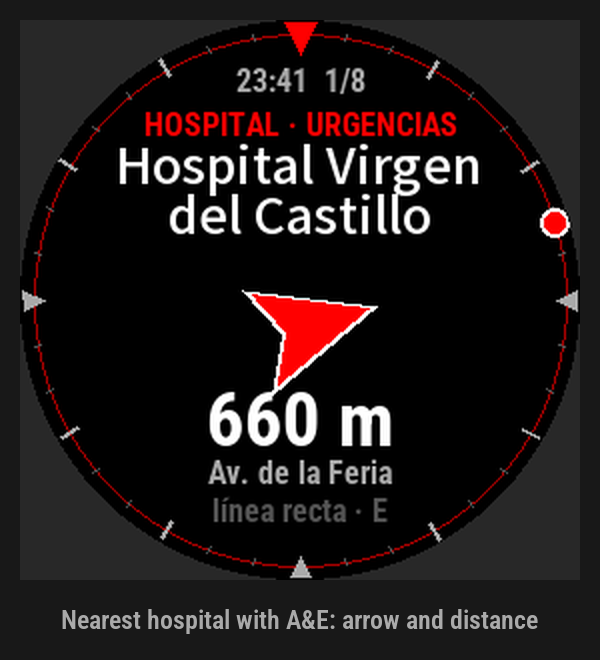
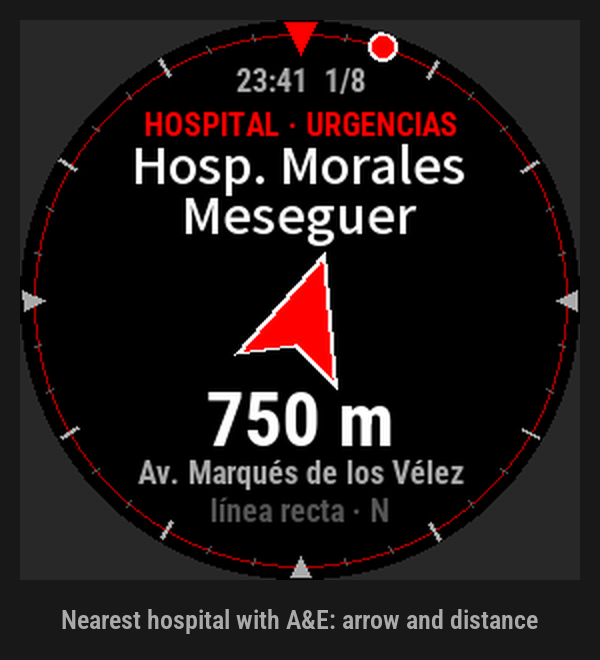
Calles Murcia: nombres de hospital y comisaría que caben, pantalla 4 con el Morales Meseguer y beta_id propio
- overrides-murcia.json, poi_abrev: los 32 nombres que no cabían enteros en la guía (240, 260 y 280, medido con
  mockup.py) pasan a una forma corta legible («Hosp. Morales Meseguer», «Hospital Virgen de la Arrixaca»,
  «Cartagena · Distrito 1»…). Ahora caben los 70.
- Pantalla 4 de la tienda: desde la Gran Vía de Murcia, el Morales Meseguer a 750 m (antes, el hospital de Yecla).
- catalogo.json: beta_id fe5c0e8f… (solo el fēnix 7X Pro), que no se cambia nunca.
- Título «Calles Murcia (offline)» confirmado por el autor.

Changed region(s): [[0.18, 0.2121, 0.81, 0.7879], [0.6, 0.0303, 0.69, 0.0909], [0.9, 0.303, 0.96, 0.3636]]

diff --git a/tools/mockup.py b/tools/mockup.py
@@ -606,11 +606,11 @@ ESCENAS_MURCIA = [
     ("Cartagena: Calle Mayor", dict(calle1="Calle Mayor", num1="nº 14", barrio="Casco Antiguo",
                                     tramo=("Calle Medieras", "Calle Andino"))),
     ("Pedanía y término", dict(lugar="El Moral", sub="término de Caravaca de la Cruz", pie="30S 569078 4205422")),
-    # Desde la calle San José (Yecla, centro): el de urgencias más cercano está a 660 m, rumbo 73°. (El Morales
-    # Meseguer, desde la Gran Vía de Murcia, no cabe: «Hospital General Universitario…» se corta.)
-    ("Yecla: hospital", dict(anillo=dict(nombre="Hospital Virgen del Castillo", dir="Avenida de la Feria",
-                                         tipo="HOSPITAL · URGENCIAS", color=ROJO, dist="660 m", rumbo=0, destino=73,
-                                         i=1, n=8))),
+    # Desde la Gran Vía de Murcia (nº 23): el de urgencias más cercano está a 750 m, rumbo 18°. El nombre va con la
+    # forma corta de overrides-murcia.json (poi_abrev), que cabe entera en 240, 260 y 280.
+    ("Murcia: hospital", dict(anillo=dict(nombre="Hosp. Morales Meseguer", dir="Avenida Marqués de los Vélez",
+                                          tipo="HOSPITAL · URGENCIAS", color=ROJO, dist="750 m", rumbo=0, destino=18,
+                                          i=1, n=8))),
 ]
 FICHAS = {
     "madrid": ("", ESCENARIOS, None, (("Street, door number and the streets on each side", "Madrid: Gran Vía"),
@@ -626,7 +626,7 @@ FICHAS = {
                (("Street, door number and the streets on each side", "Murcia: Calle Trapería"),
                 ("Cities and towns: street, number and neighbourhood", "Cartagena: Calle Mayor"),
                 ("Outside town: hamlet and municipality", "Pedanía y término"),
-                ("Nearest hospital with A&E: arrow and distance", "Yecla: hospital"))),
+                ("Nearest hospital with A&E: arrow and distance", "Murcia: hospital"))),
 }
 
 

diff --git a/docs/tienda/calle-murcia.md b/docs/tienda/calle-murcia.md
@@ -3,7 +3,7 @@
 App del catálogo por zonas (`tools/catalogo.json`): `APP=murcia ./ciq.sh tienda` → `bin/calle-murcia.iq`.
 Subida nueva en el portal (no es una versión de ninguna beta), con el id `e6ac6e68…`. **Sin subir**: la sube el autor.
 
-- **Título:** «Calles Murcia (offline)», en inglés y en español (provisional, como el resto del catálogo).
+- **Título:** «Calles Murcia (offline)», en inglés y en español (confirmado por el autor, 2026-10-26).
 - **Versión:** 3.4.0 (la interfaz 3.4, propuesta); la decide el autor al subirla.
 - **Relojes:** la familia fēnix 7 (7, 7S, 7X, 7 Pro, 7S Pro, 7X Pro y los dos Pro sin Wi-Fi), con los tests en verde
   en el 7S, el 7 y el 7X Pro. El `.iq` pasa de los 10 MB: se sube a mano o por trozos, como las demás apps del catálogo.
@@ -16,7 +16,9 @@ Subida nueva en el portal (no es una versión de ninguna beta), con el id `e6ac6
   1. Murcia, Calle Trapería 19, entre la Calle Andrés Baquero y la Calle Platería;
   2. Cartagena, Calle Mayor 14, Casco Antiguo, entre la Calle Medieras y la Calle Andino;
   3. la pedanía de El Moral (término de Caravaca de la Cruz), sin calle a 50 m, con su UTM;
-  4. desde la Calle San José (Yecla), el hospital con urgencias más cercano: el Virgen del Castillo, a 660 m hacia el ENE.
+  4. desde la Gran Vía de Murcia (nº 23), el hospital con urgencias más cercano: el Morales Meseguer, a 750 m hacia el N
+     (en el reloj, «Hosp. Morales Meseguer»: los nombres largos van abreviados para caber enteros, `poi_abrev` en
+     `tools/overrides-murcia.json`).
 - El portal puede avisar «Signature check failed» en la primera subida de una app nueva: es un fallo conocido suyo.
   La firma se comprueba en local con `openssl dgst -sha256 -verify dev_key.pub -keyform DER -signature manifest.sig2
   manifest.xml`.
